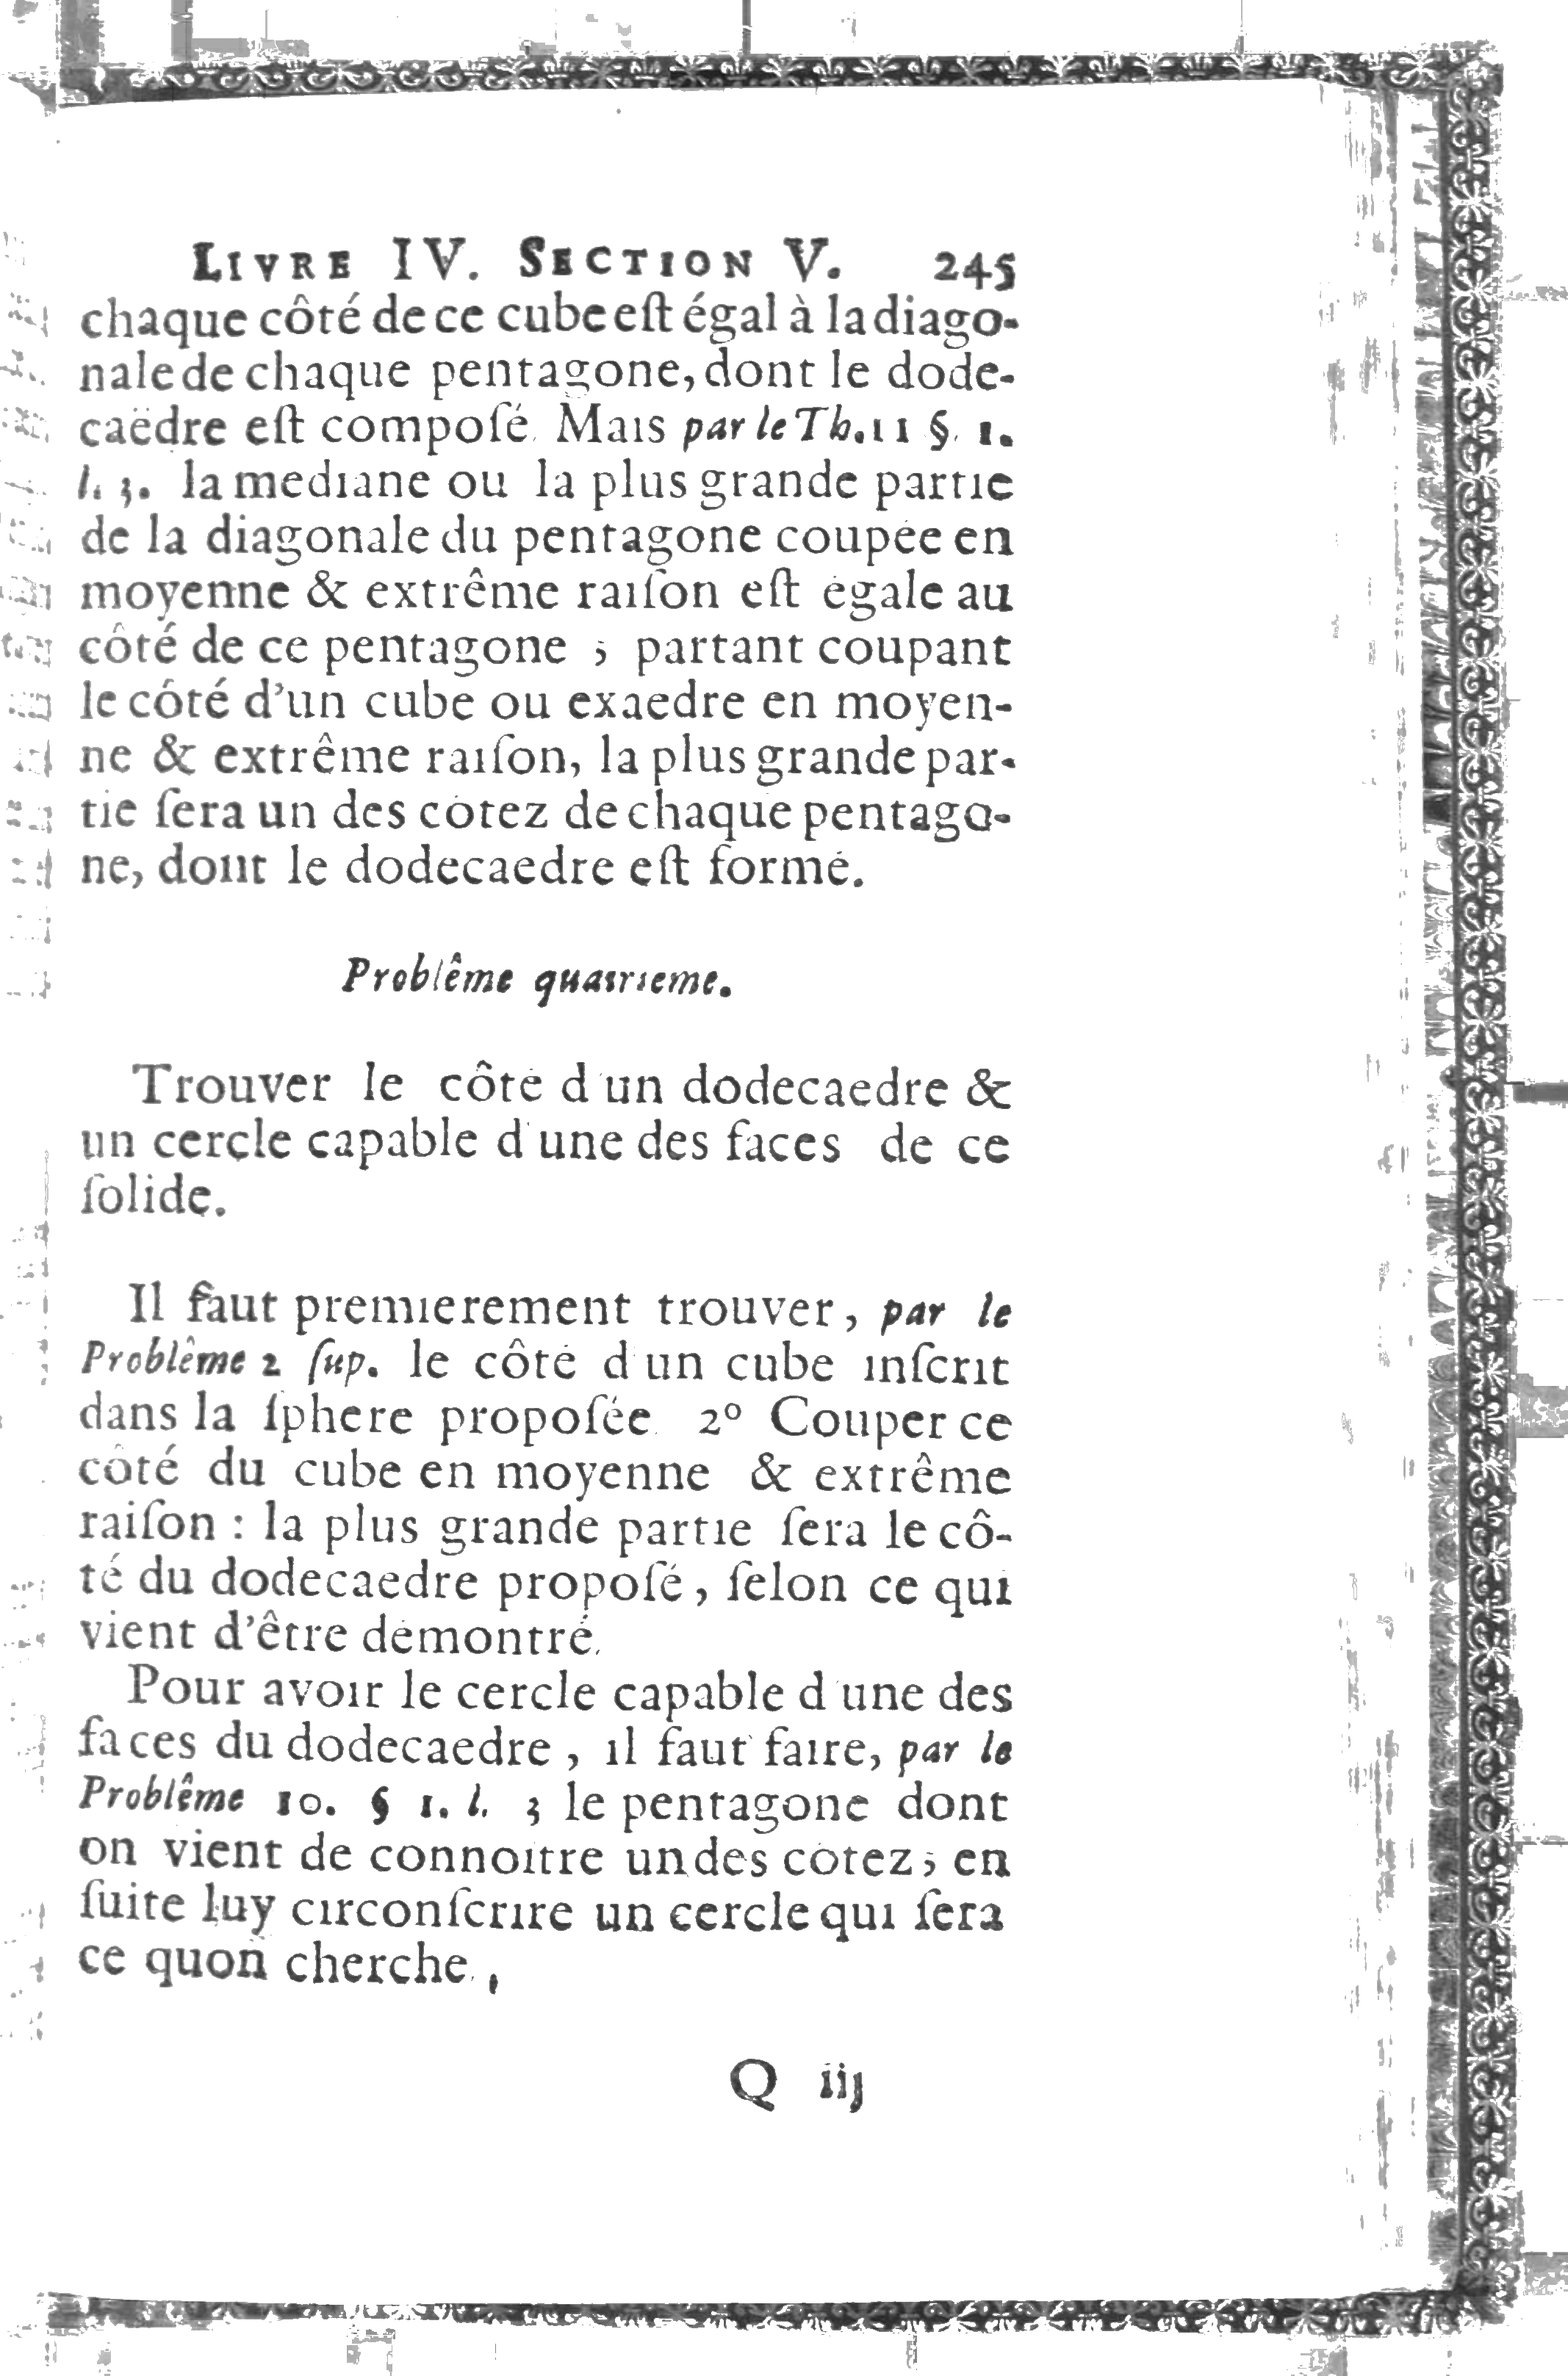
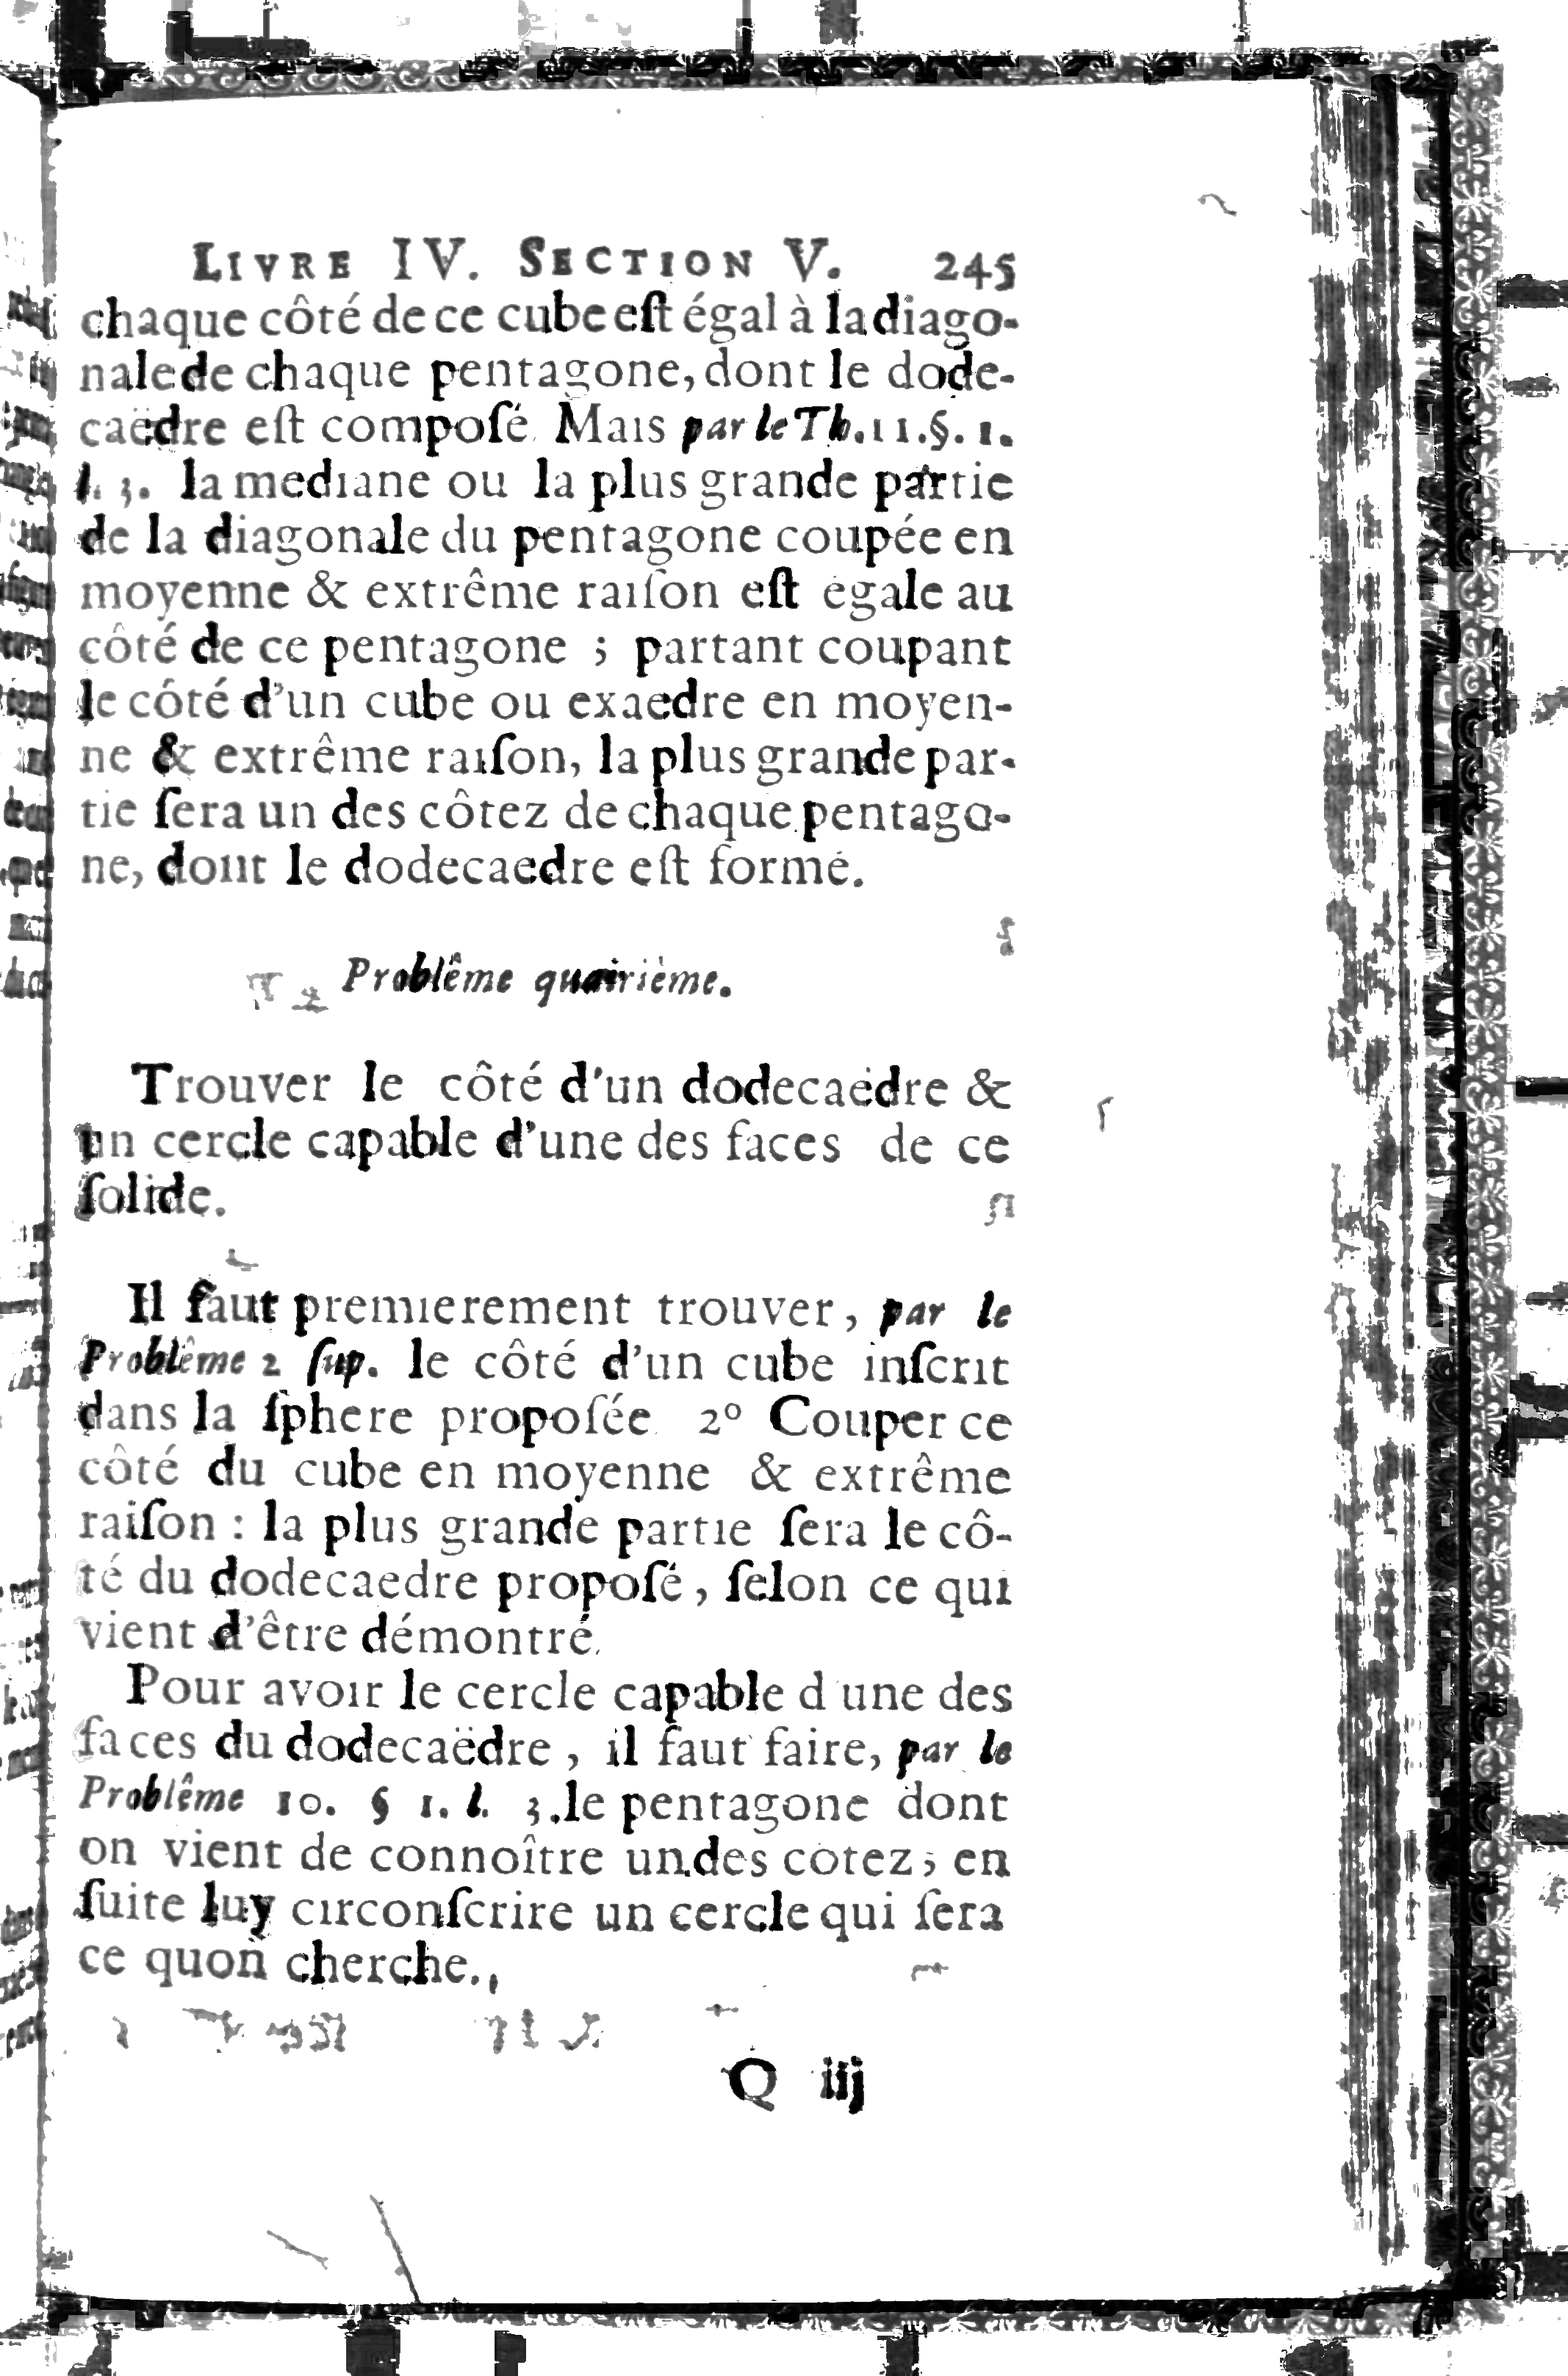
Working on denoise

diff --git a/ocrflow/pkg/formatcov/denoise_png_test.go b/ocrflow/pkg/formatcov/denoise_png_test.go
@@ -15,7 +15,7 @@ import (
 )
 
 func TestDenoisePNGFixtures(t *testing.T) {
-	paths, err := denoiseFixtureInputs(filepath.Join("testdata", "denoise"))
+	paths, err := denoiseFixtureInputs("testdata/denoise")
 	if err != nil {
 		t.Fatalf("list denoise fixtures: %v", err)
 	}
@@ -59,24 +59,26 @@ func TestDenoisePNGFixtures(t *testing.T) {
 }
 
 func denoiseFixtureInputs(dir string) ([]string, error) {
-	entries, err := os.ReadDir(dir)
-	if err != nil {
-		return nil, err
-	}
-
-	paths := make([]string, 0, len(entries))
-	for _, entry := range entries {
-		if entry.IsDir() {
-			continue
+	paths := []string{}
+	err := filepath.WalkDir(dir, func(path string, d os.DirEntry, err error) error {
+		if err != nil {
+			return err
 		}
-		name := entry.Name()
+		if d.IsDir() {
+			return nil
+		}
+		name := d.Name()
 		if filepath.Ext(name) != ".png" {
-			continue
+			return nil
 		}
 		if strings.HasSuffix(name, ".snap.png") || strings.HasSuffix(name, ".stage.png") {
-			continue
+			return nil
 		}
-		paths = append(paths, filepath.Join(dir, name))
+		paths = append(paths, path)
+		return nil
+	})
+	if err != nil {
+		return nil, err
 	}
 
 	slices.Sort(paths)

diff --git a/ocrflow/pkg/formatcov/denoise_png.go b/ocrflow/pkg/formatcov/denoise_png.go
@@ -116,11 +116,8 @@ const (
 	denoiseRecoverZoneBase    = 15
 	denoiseRecoverZoneMin     = 9
 	denoiseRecoverMinAreaMult = 2
-	denoiseRecoverElongFactor = 6.0
-	denoiseRecoverMinMaxDim   = 25
 	denoiseLineLikeAreaFactor = 6.0
 
-	denoiseInkPercentile      = 10
 	denoiseInkDarkReference   = 110
 	denoiseInkOffsetMax       = 40
 	denoiseInkBucketScale     = 4
@@ -657,6 +654,7 @@ func denoiseOne(inPath, outPath string) error {
 
 	repairInput := cleaned
 	var recoveredThin gocv.Mat
+	hasRecoveredThin := false
 	if !denoiseLowQuality(gray.Rows(), gray.Cols()) {
 		recoveredThin, err = recoverThinLines(cleaned, &blurred)
 		if err != nil {
@@ -664,11 +662,12 @@ func denoiseOne(inPath, outPath string) error {
 		}
 		defer recoveredThin.Close()
 		repairInput = recoveredThin
+		hasRecoveredThin = true
 	}
 
 	exemptMask := gocv.Zeros(gray.Rows(), gray.Cols(), gocv.MatTypeCV8U)
 	defer exemptMask.Close()
-	if !recoveredThin.Empty() {
+	if hasRecoveredThin {
 		invCleaned2 := gocv.NewMat()
 		defer invCleaned2.Close()
 		if err := gocv.BitwiseNot(cleaned, &invCleaned2); err != nil {
